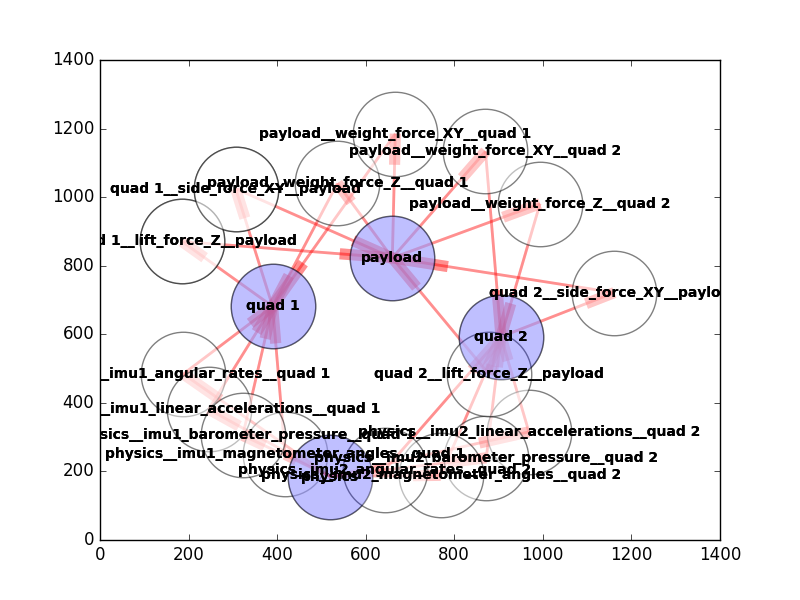
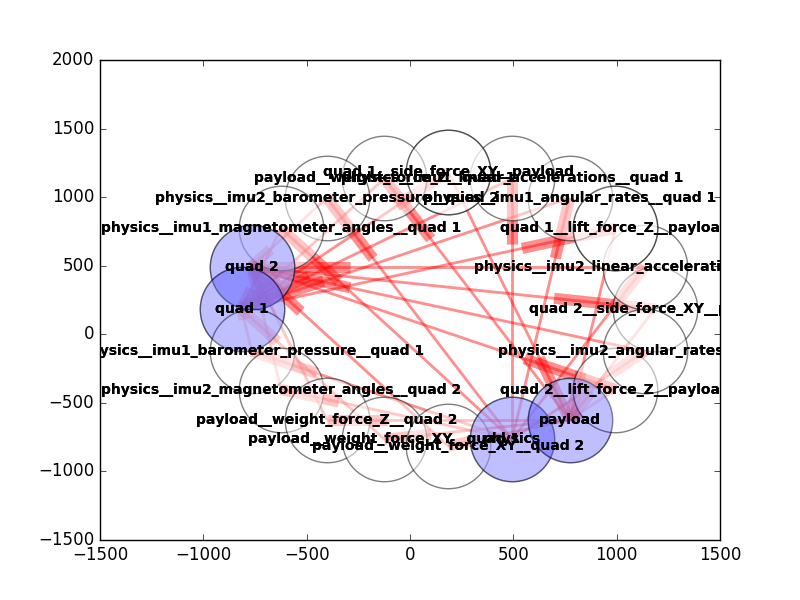
up

diff --git a/pyCode/pyTesting_xml_to_nexX.py b/pyCode/pyTesting_xml_to_nexX.py
@@ -185,8 +185,10 @@ plt.savefig("system_graph.png") # save as png
 fig = plt.figure()
 ax = fig.add_subplot(1, 1, 1)
 
-pos_GwV=nx.spring_layout(G_wVirtualEdges) # positions for all nodes
-# pos_GwV=nx.spectral_layout(G_wVirtualEdges) # positions for all nodes
+# pos_GwV=nx.spring_layout(G_wVirtualEdges) # positions for all nodes
+pos_GwV=nx.spectral_layout(G_wVirtualEdges) # positions for all nodes
+pos_GwV=nx.circular_layout(G_wVirtualEdges)
+pos_GwV=nx.shell_layout(G_wVirtualEdges)
 
 for node in listOfNodes_GwV:
     pos_GwV[node]=pos_GwV[node]*1000 + node_circle_size/20.
